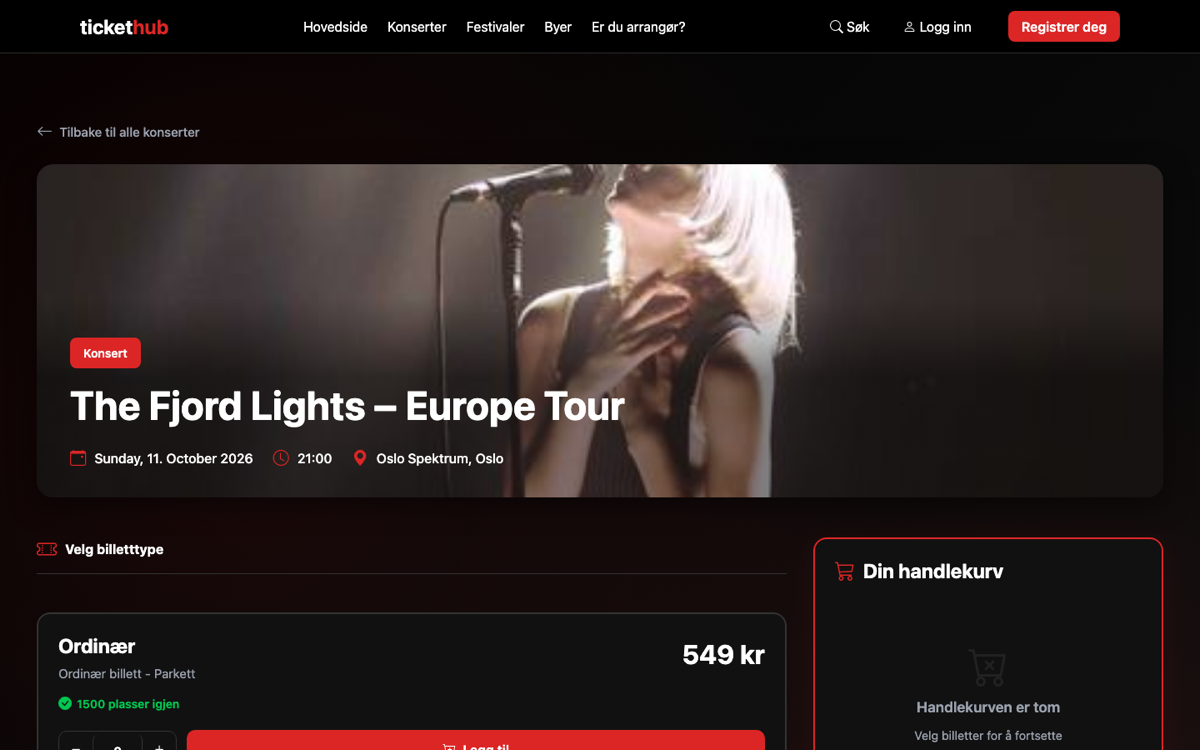
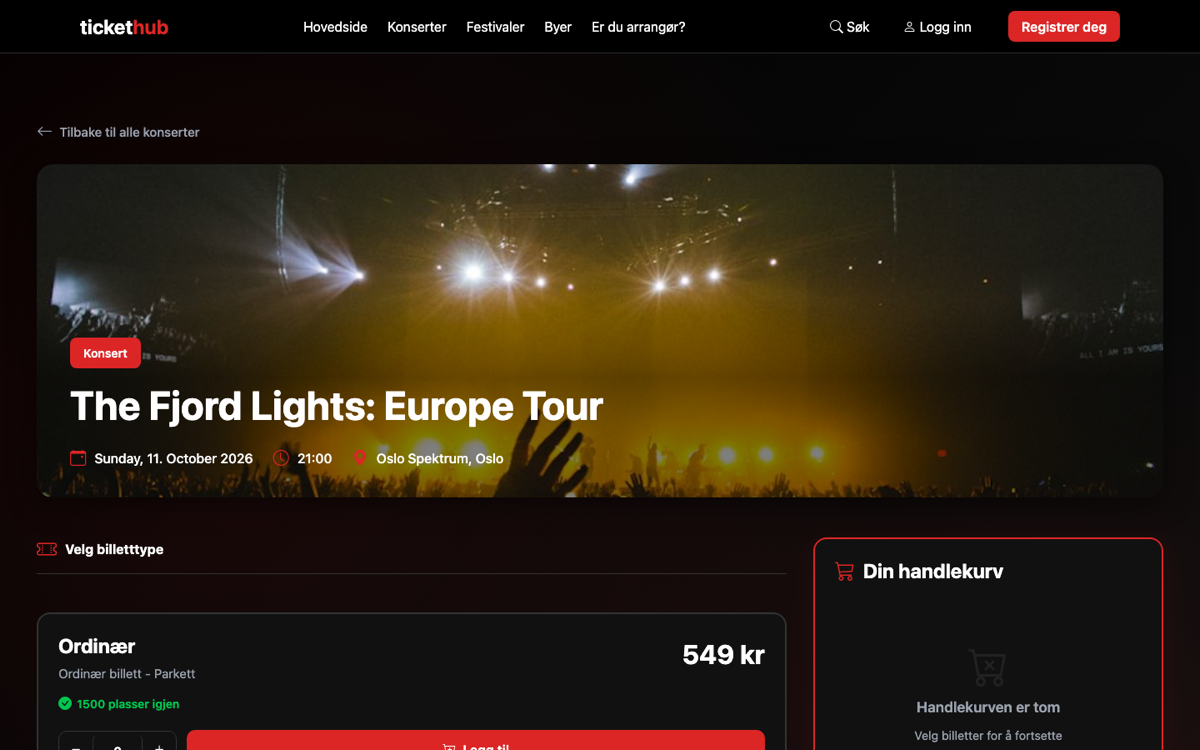
More demo events, new screenshots and README cleanup

Changed region(s): [[0.0308, 0.2147, 0.8017, 0.6747], [0.8325, 0.3987, 0.8633, 0.4293]]

diff --git a/events/management/commands/seed_demo.py b/events/management/commands/seed_demo.py
@@ -48,6 +48,8 @@ class Command(BaseCommand):
             ("Grieghallen", "Edvard Griegs plass 1", "5015", "Bergen"),
             ("Olavshallen", "Kjøpmannsgata 44", "7011", "Trondheim"),
             ("Tjuvholmen Scene", "Strandpromenaden 5", "0252", "Oslo"),
+            ("Stavanger Konserthus", "Sandvigå 1", "4007", "Stavanger"),
+            ("USF Verftet", "Georgernes verft 12", "5011", "Bergen"),
         ]:
             v = Venue.objects.create(name=name, address=Address.objects.create(street=street, postal_code=pc, city=city))
             VenueArea.objects.create(venue=v, name="Parkett", max_capacity_total=2000, max_capacity_standing=2000)
@@ -56,36 +58,52 @@ class Command(BaseCommand):
 
         performers = {}
         for name, genre in [("The Fjord Lights", "rock"), ("Aurora Hansen", "pop"), ("Midnight Jazz Trio", "jazz"),
-                            ("Nordic Beats", "electronic"), ("Bergen Philharmonic Demo", "classical"), ("Lofoten Folk", "folk")]:
+                            ("Nordic Beats", "electronic"), ("Bergen Philharmonic Demo", "classical"), ("Lofoten Folk", "folk"),
+                            ("Glacier", "metal"), ("Oda & The Waves", "pop"), ("Lil Troll", "hiphop"),
+                            ("Polar Soul Collective", "r&b"), ("Svalbard Sound", "electronic"), ("Hardanger Strings", "classical")]:
             performers[name] = Performer.objects.create(name=name, genre=genre, bio=f"{name} er et fiktivt demo-band for TicketHub.")
 
+        # bilder ligger i media/images/demo og kopieres til event_images slik som ved vanlig opplasting
         img_dir = Path(settings.MEDIA_ROOT) / "event_images"
         img_dir.mkdir(parents=True, exist_ok=True)
-        src = [Path(settings.MEDIA_ROOT) / "images" / f for f in ("event-image.jpg", "event-image-2.jpg")]
+        src = sorted((Path(settings.MEDIA_ROOT) / "images" / "demo").glob("*.jpg"))
         for s in src:
             shutil.copy(s, img_dir / s.name)
 
+        # (tittel, type, lokasjon, dager fra i dag, artister, pris)
         events = [
-            ("The Fjord Lights – Europe Tour", "concert", 0, 12, ["The Fjord Lights"], 549),
-            ("Aurora Hansen: Northern Nights", "concert", 1, 20, ["Aurora Hansen"], 699),
-            ("Oslo Summer Festival", "festival", 3, 30, ["Nordic Beats", "The Fjord Lights", "Aurora Hansen"], 1290),
-            ("Midnight Jazz Trio Live", "concert", 2, 40, ["Midnight Jazz Trio"], 399),
-            ("Bergen Classical Evening", "concert", 1, 55, ["Bergen Philharmonic Demo"], 450),
+            ("The Fjord Lights: Europe Tour", "concert", 0, 12, ["The Fjord Lights"], 549),
+            ("Aurora Hansen: Northern Nights", "concert", 1, 16, ["Aurora Hansen"], 699),
+            ("Oslo Summer Festival", "festival", 3, 21, ["Nordic Beats", "The Fjord Lights", "Aurora Hansen"], 1290),
+            ("Midnight Jazz Trio Live", "concert", 2, 25, ["Midnight Jazz Trio"], 399),
+            ("Glacier: Frozen Tour", "concert", 5, 28, ["Glacier"], 489),
+            ("Oda & The Waves", "concert", 4, 33, ["Oda & The Waves"], 429),
+            ("Lil Troll: Fjellet Tour", "concert", 0, 37, ["Lil Troll"], 599),
+            ("Bergen Classical Evening", "concert", 1, 41, ["Bergen Philharmonic Demo", "Hardanger Strings"], 450),
+            ("Polar Soul Night", "concert", 3, 45, ["Polar Soul Collective"], 379),
+            ("Svalbard Sound: Live", "concert", 5, 50, ["Svalbard Sound"], 459),
+            ("Bergen Beats Festival", "festival", 5, 54, ["Nordic Beats", "Svalbard Sound", "Lil Troll"], 1190),
+            ("Hardanger Strings", "concert", 4, 58, ["Hardanger Strings"], 349),
+            ("Trondheim Rock Weekend", "festival", 2, 63, ["Glacier", "The Fjord Lights"], 1090),
             ("Lofoten Folk Festival", "festival", 2, 70, ["Lofoten Folk", "Midnight Jazz Trio"], 990),
+            ("Aurora Hansen: Winter Songs", "concert", 0, 78, ["Aurora Hansen"], 749),
+            ("Stavanger Jazz Days", "festival", 4, 85, ["Midnight Jazz Trio", "Polar Soul Collective"], 890),
+            ("Nordic Beats: Club Night", "concert", 3, 92, ["Nordic Beats"], 299),
+            ("Julekonsert med Hardanger Strings", "concert", 1, 99, ["Hardanger Strings", "Lofoten Folk"], 399),
         ]
         for i, (title, etype, vi, days, perf, price) in enumerate(events):
             start = now + timedelta(days=days, hours=19 - now.hour)
             end = start + (timedelta(days=2) if etype == "festival" else timedelta(hours=3))
             e = Event.objects.create(
                 organizer=org, venue=venues[vi], title=title, event_type=etype, start_datetime=start, end_datetime=end,
-                description=f"{title} – en uforglemmelig kveld med levende musikk. (Demo-arrangement)",
+                description=f"{title}. En uforglemmelig kveld med levende musikk. (Demo-arrangement)",
             )
             e.performers.set([performers[p] for p in perf])
-            EventImage.objects.create(event=e, image=f"event_images/{src[i % 2].name}", alt_text=title, is_cover=True)
+            EventImage.objects.create(event=e, image=f"event_images/{src[i % len(src)].name}", alt_text=title, is_cover=True)
             parkett, balkong = venues[vi].areas.order_by("id")
             TicketType.objects.create(event=e, venue_area=parkett, name=TicketType._meta.get_field("name").choices[0][0], price=price, quantity=1500)
             choices = TicketType._meta.get_field("name").choices
             TicketType.objects.create(event=e, venue_area=balkong, name=choices[1 % len(choices)][0], price=price + 300, quantity=300)
-            EventStandingAllocation.objects.create(event=e, venue_area=parkett, capacity=1500, sold=300 + i * 90)
+            EventStandingAllocation.objects.create(event=e, venue_area=parkett, capacity=1500, sold=100 + (i * 170) % 1300)
 
         self.stdout.write(self.style.SUCCESS(f"Demo-data lagt inn: {Event.objects.count()} arrangementer"))

diff --git a/README.md b/README.md
@@ -1,6 +1,6 @@
 # TicketHub 🎟
 
-TicketHub is a ticketing website for concerts and festivals in Norway. We built it as a group project at school — six of us worked on it for about a year (Aug 2025 – Sep 2026). It started as a simple event list and grew into a full site where you can browse events, buy tickets and manage your own events as an organizer.
+TicketHub is a ticketing website for concerts and festivals in Norway. We built it as a group project at school. Six of us worked on it for about a year (Aug 2025 to Sep 2026). It started as a simple event list and grew into a full site where you can browse events, buy tickets and manage your own events as an organizer.
 
 The site is in Norwegian, since that was the target audience.
 
@@ -27,19 +27,21 @@ The site is in Norwegian, since that was the target audience.
 
 ## Screenshots
 
-| Concerts | Buying tickets |
+![All events](docs/screenshots/all_events.png)
+
+| Festivals | Buying tickets |
 |---|---|
-| ![Concerts](docs/screenshots/concerts.png) | ![Buying tickets](docs/screenshots/purchase.png) |
+| ![Festivals](docs/screenshots/festivals.png) | ![Buying tickets](docs/screenshots/purchase.png) |
 
 | Organizer profile | Creating an event |
 |---|---|
 | ![Organizer profile](docs/screenshots/organizer_profile.png) | ![Create event](docs/screenshots/create_event.png) |
 
-| Festivals | Login | Mobile |
-|---|---|---|
-| ![Festivals](docs/screenshots/festivals.png) | ![Login](docs/screenshots/login.png) | ![Mobile](docs/screenshots/mobile.png) |
+| Venues | Login |
+|---|---|
+| ![Venues](docs/screenshots/venues.png) | ![Login](docs/screenshots/login.png) |
 
-*The events, artists and organizer in the screenshots are made-up demo data.*
+The events, artists and organizer in the screenshots are made-up demo data.
 
 ## Tech stack
 
@@ -72,8 +74,8 @@ Then open http://127.0.0.1:8000/.
 
 | Email | Role |
 |---|---|
-| organizer@example.com | Organizer – can create and edit events |
-| ola@example.com | Normal user – can buy tickets |
+| organizer@example.com | Organizer, can create and edit events |
+| ola@example.com | Normal user, can buy tickets |
 
 For the admin panel make your own superuser with `python manage.py createsuperuser` and go to `/admin/`.
 
@@ -102,9 +104,9 @@ docs/      API docs and screenshots
 
 | | Main areas |
 |---|---|
+| **Nikita** ([@nebedolagaa](https://github.com/nebedolagaa)) | Main frontend developer. Built most of the event pages and shared templates, fixed styling and UI bugs across the whole site. Also made the archive system and parts of the REST API |
 | **Christoffer** ([@Christofferberg77](https://github.com/Christofferberg77)) | Ticket purchase flow, cart and checkout pages |
 | **Kamilla** ([@kamazik0102](https://github.com/kamazik0102)) | User model and login, user and organizer profiles, creating/editing events |
-| **Nikita** ([@nebedolagaa](https://github.com/nebedolagaa)) | Event pages and templates, archive system, REST API, info pages, lots of refactoring |
 | **Jesper** ([@jesper0202](https://github.com/jesper0202)) | Performer model, REST API, styling |
 | **Magnus** ([@Magnusbot1](https://github.com/Magnusbot1)) | Payment and ticket views, test data |
 | **Eskild** ([@EskSond](https://github.com/EskSond)) | Event listing and filtering, info pages, styling |

diff --git a/docs/API.md b/docs/API.md
@@ -1,4 +1,4 @@
-# TicketHub – REST API
+# TicketHub REST API
 
 Dokumentasjon av REST API-ene vi laget i Arbeidskrav 3.
 
@@ -24,7 +24,7 @@ tests.py: Inneholder automatiske tester som sjekker at API-et og funksjonene vir
 ENDEPUNKT: /api/events/
 
 - Hva gjør API'et
-  API'et lar deg opprette et nytt arrangement i systemet. Det tar imot nødvendig informasjon om arrangementet som JSON i request body og lagrer det i databasen. Man kan velge event_type mellom "concert" og "festival" — standard er "concert" hvis feltet ikke sendes med.
+  API'et lar deg opprette et nytt arrangement i systemet. Det tar imot nødvendig informasjon om arrangementet som JSON i request body og lagrer det i databasen. Man kan velge event_type mellom "concert" og "festival". Standard er "concert" hvis feltet ikke sendes med.
 
 - Hvilken ressurs håndterer det
   Ressursen som håndteres er Event-modellen. Endepunktet støtter også GET for å hente en liste over alle aktive (ikke-arkiverte) arrangementer, med mulighet for filtrering på by, dato og type via query-parametere (?city=, ?date=, ?type=).
@@ -322,7 +322,7 @@ Valideringsregler:
 - Filtrering og sortering valideres automatisk av API’et
 
 - Feilmeldinger og statuskoder:
- - 200 OK – Listen over byer returneres
- - 400 BAD REQUEST – Ugyldig filter eller sorteringsparameter
- - 404 NOT FOUND – Ingen byer funnet (returnerer tom liste)
+ - 200 OK: Listen over byer returneres
+ - 400 BAD REQUEST: Ugyldig filter eller sorteringsparameter
+ - 404 NOT FOUND: Ingen byer funnet (returnerer tom liste)
 
